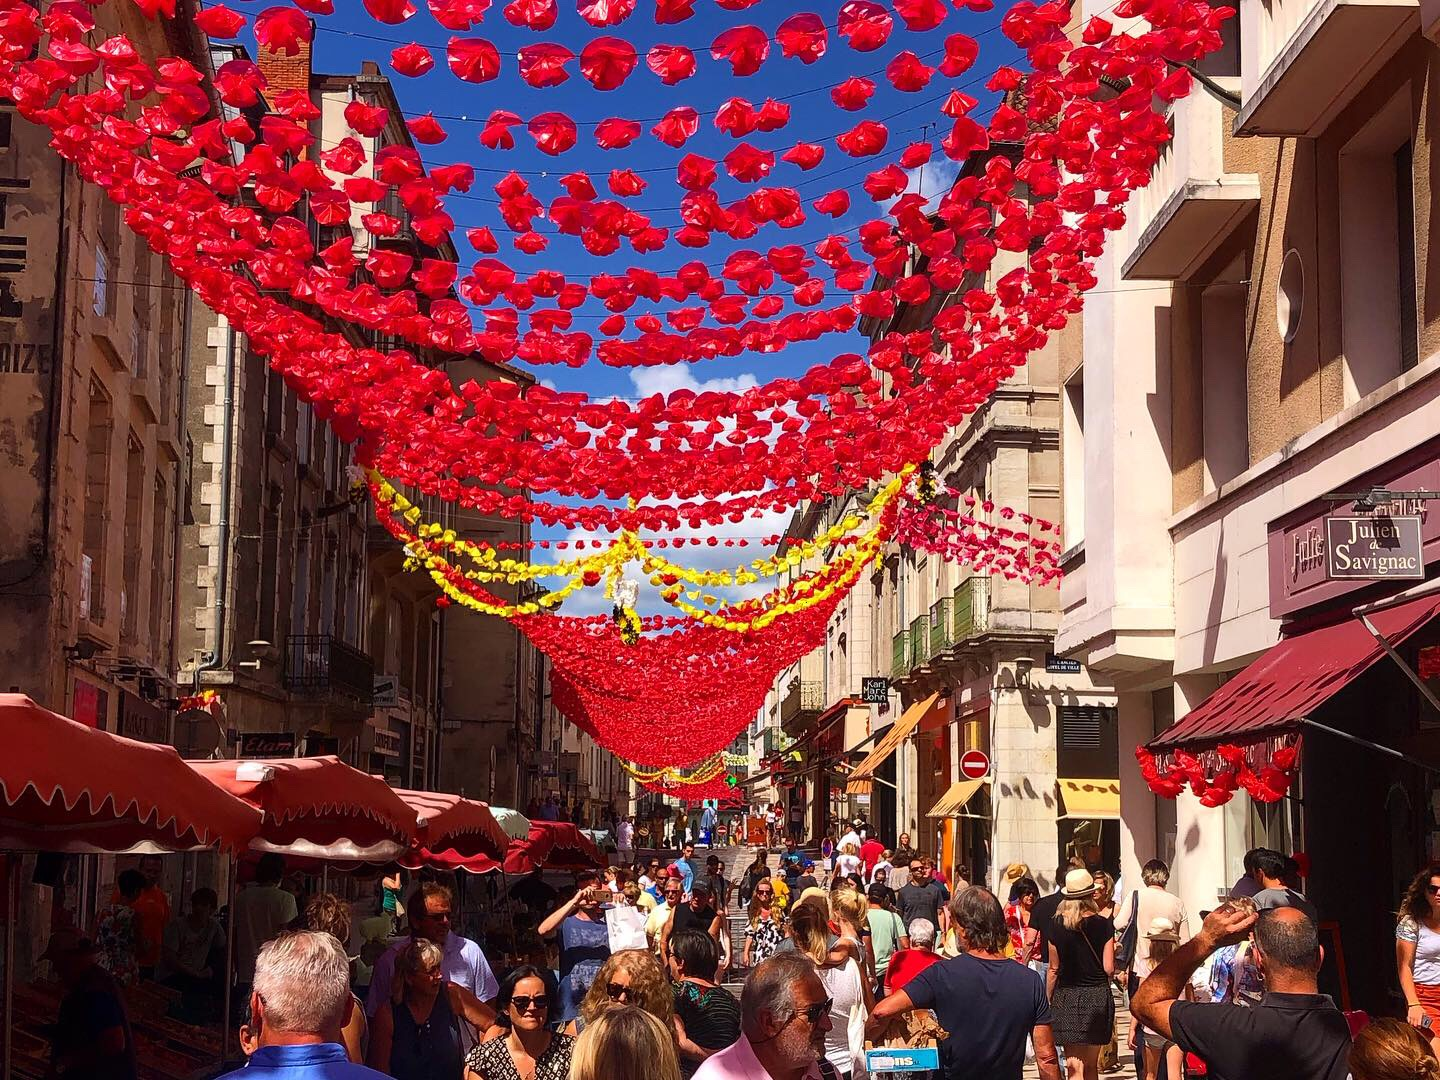
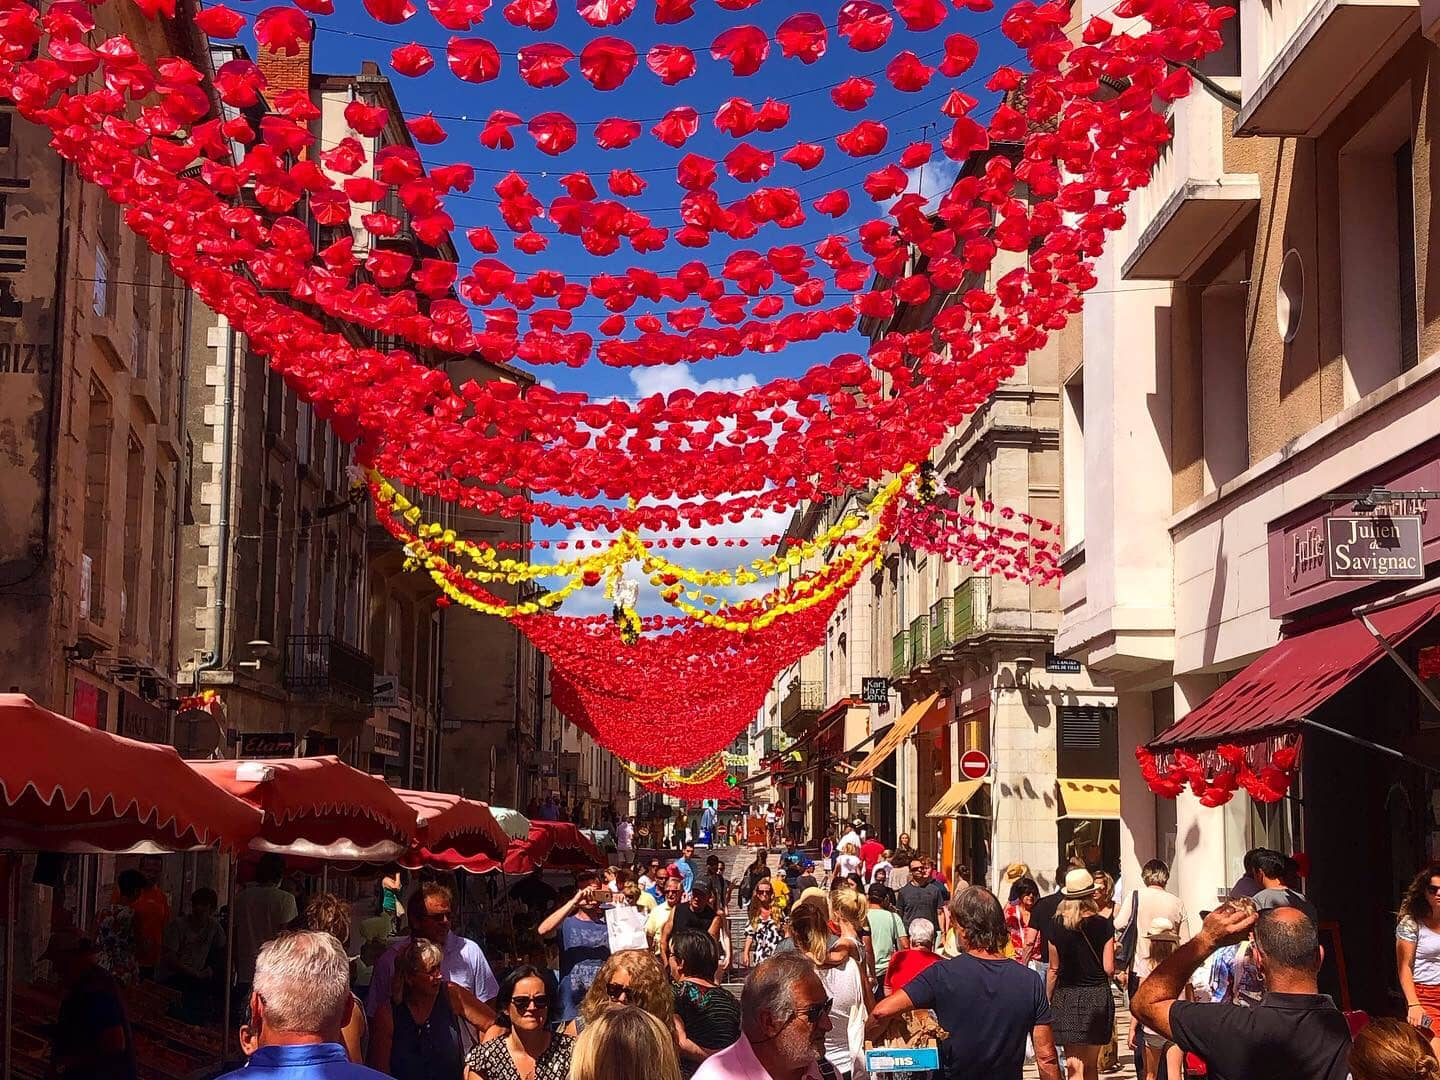
Compressing the rest of the images and hopefully fixing opacity bug

diff --git a/src/components/styles/photo-grid-four.scss b/src/components/styles/photo-grid-four.scss
@@ -20,7 +20,7 @@
 }
 
 .pg-four-image:hover {
-	opacity: 80% !important;
+	opacity: 0.8 !important;
 }
 
 .pg-four-active-image {
